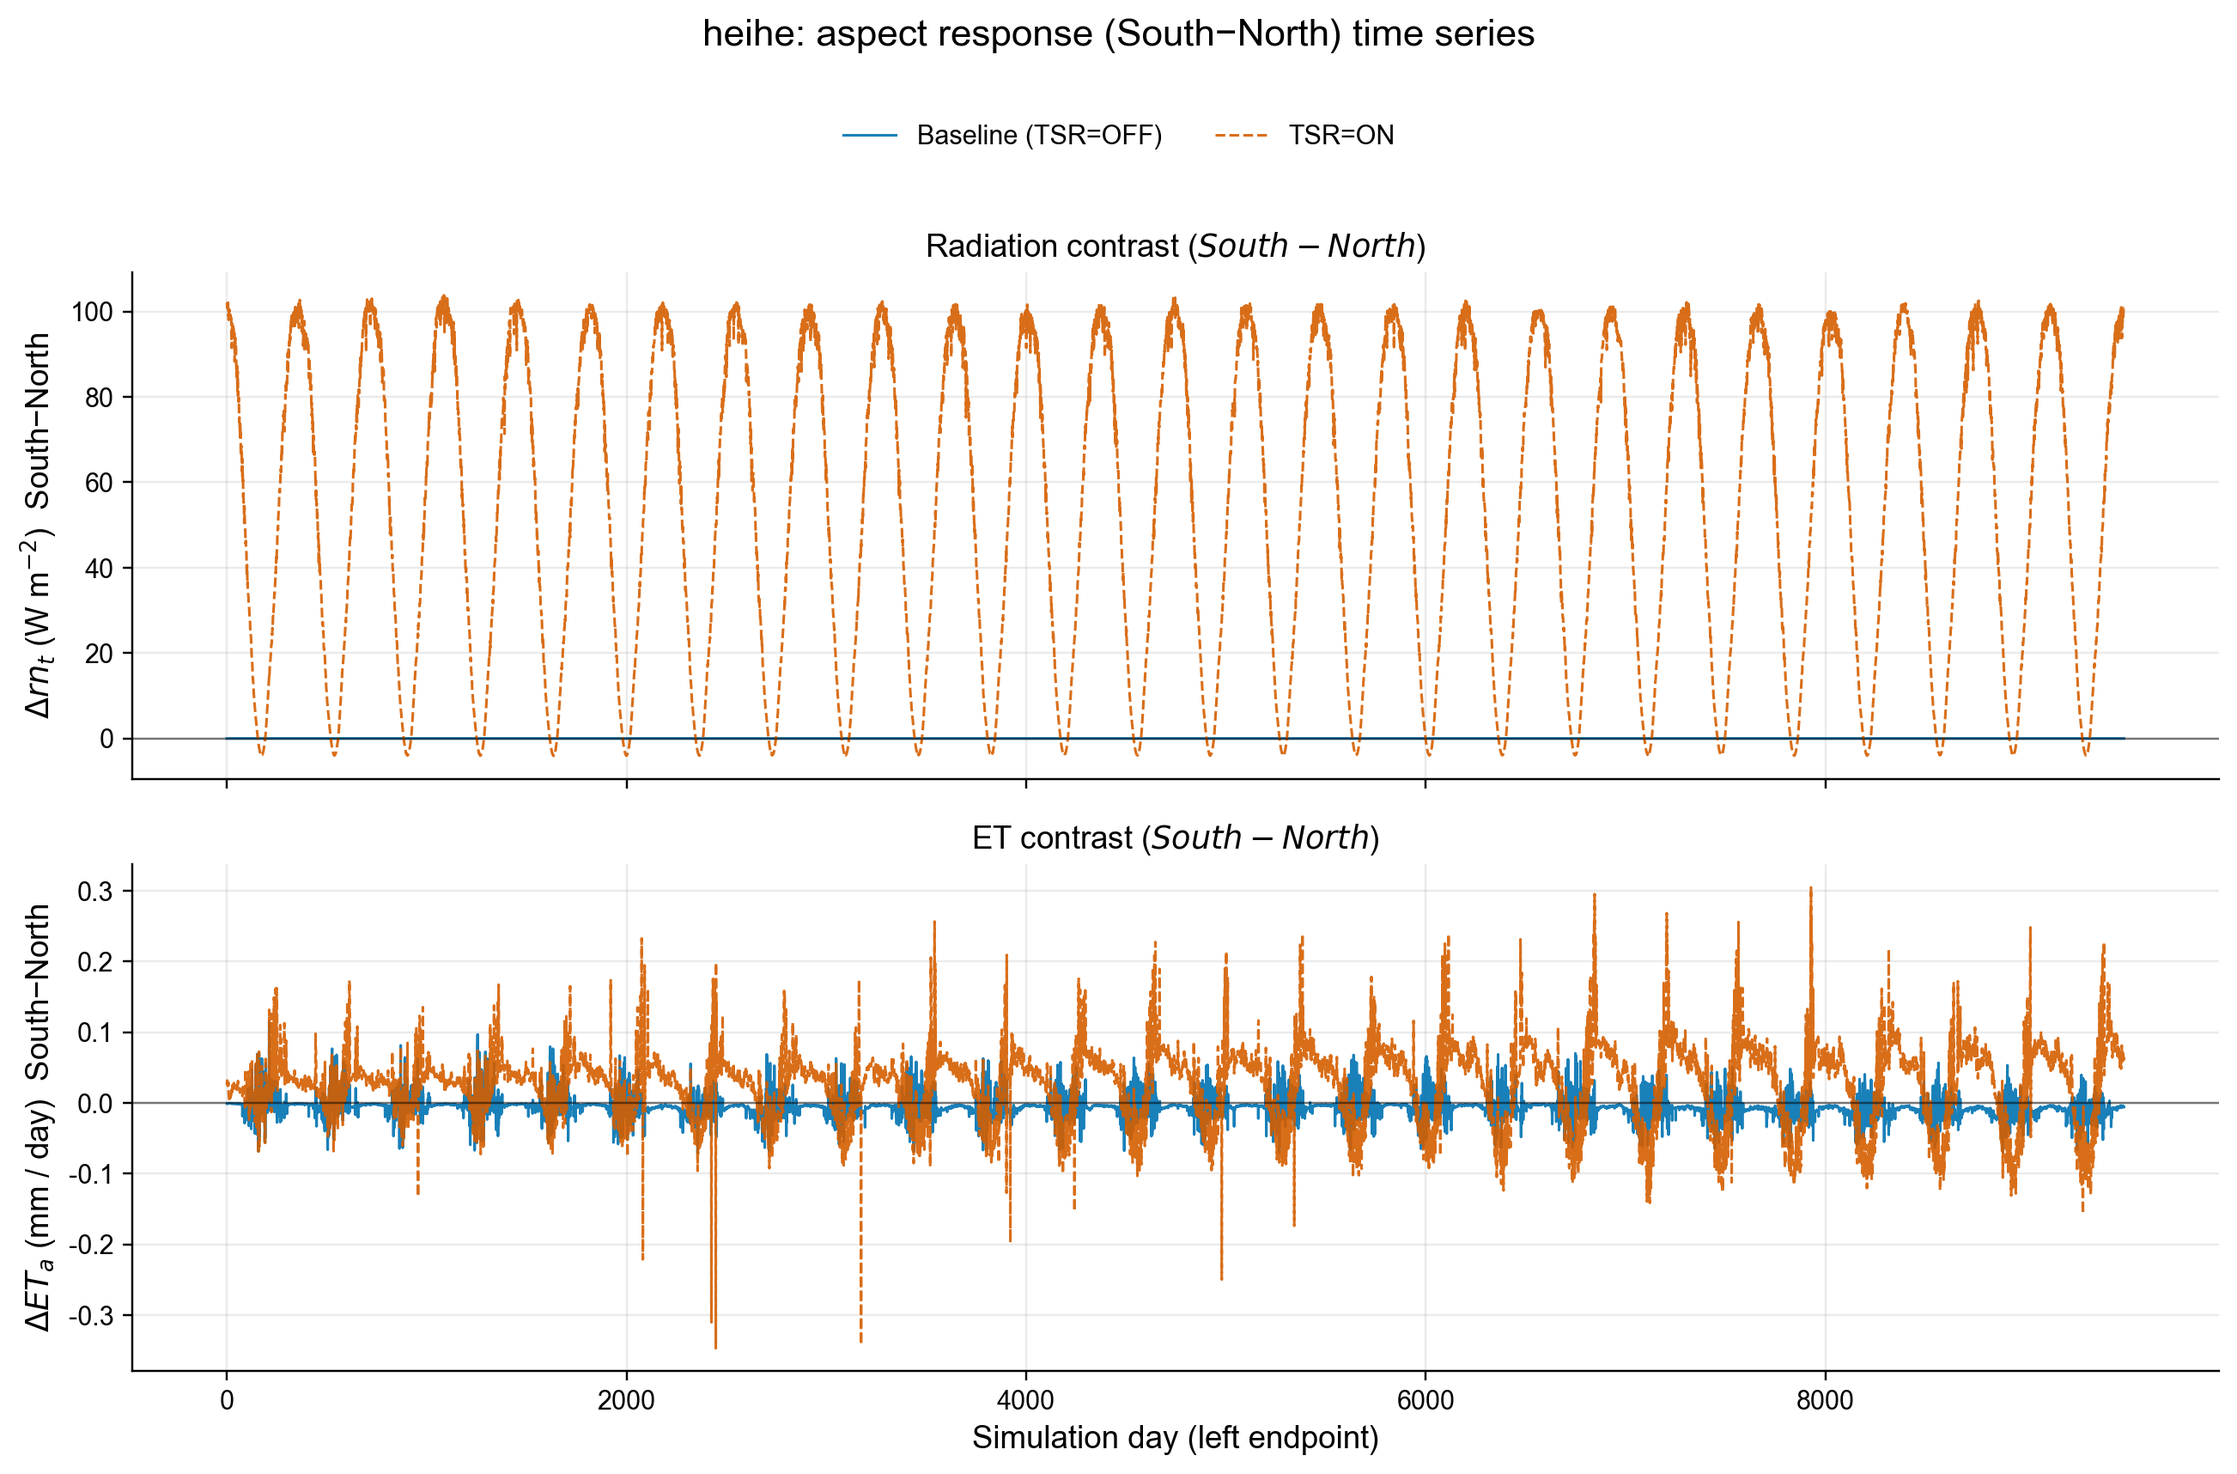
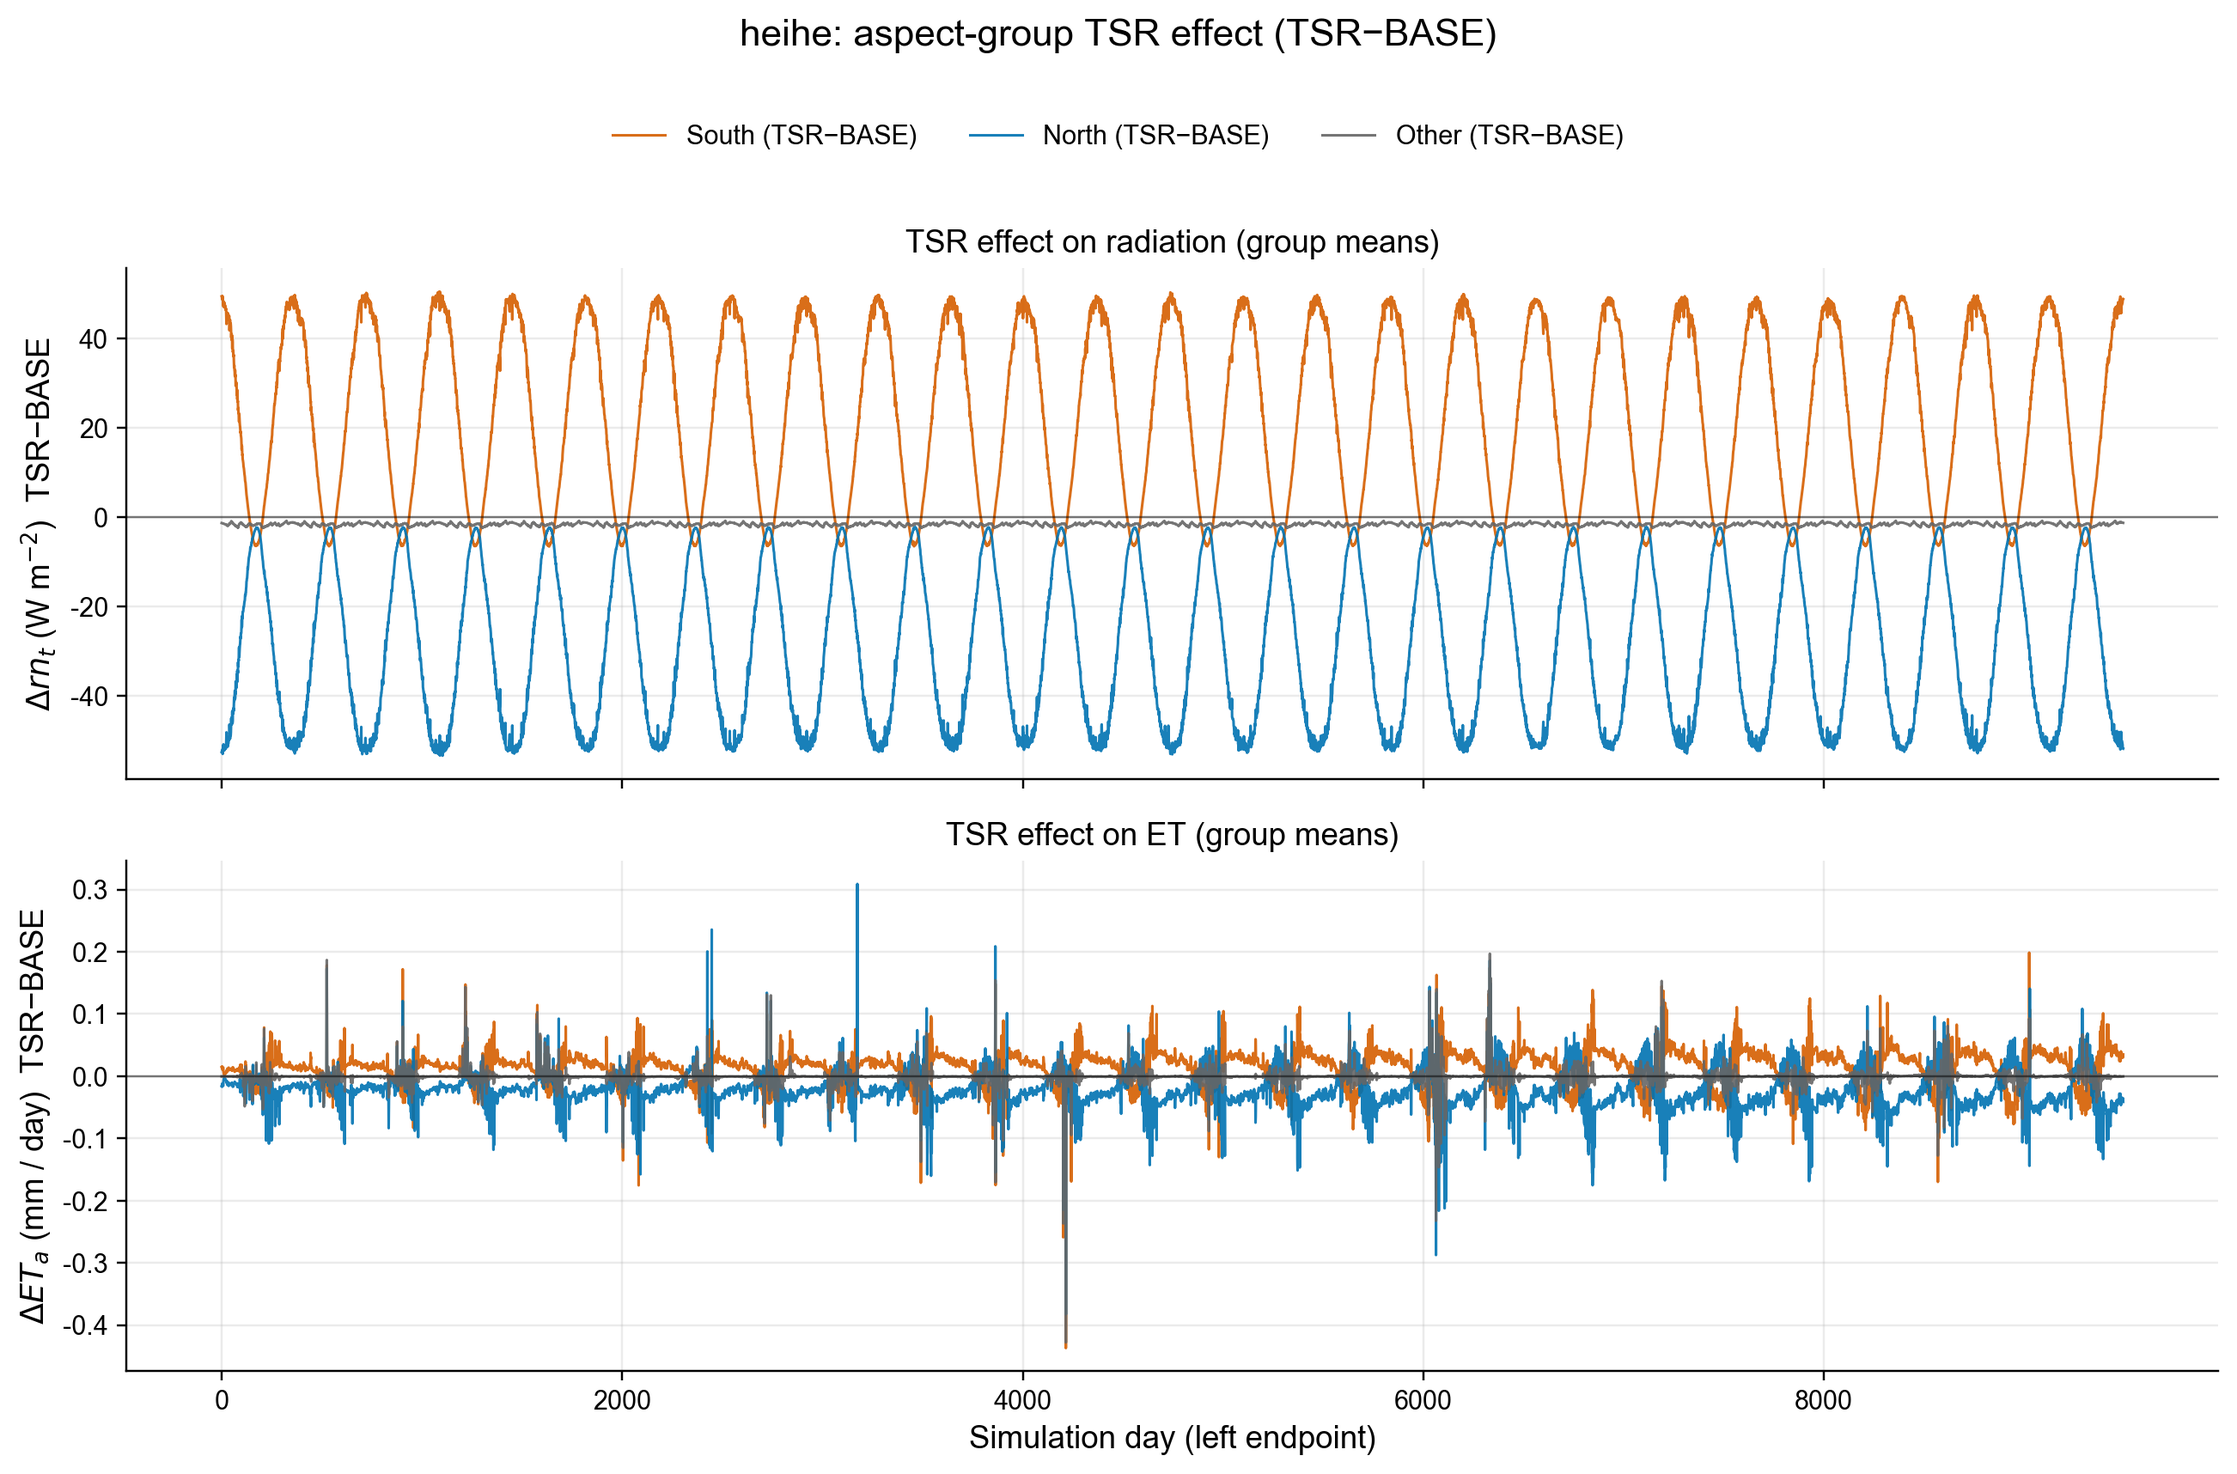
Plots: aspect TSR effect as TSR-BASE by group

diff --git a/post_analysis/plot_heihe_qhh_tsr.py b/post_analysis/plot_heihe_qhh_tsr.py
@@ -357,36 +357,50 @@ def plot_aspect_delta_timeseries(
     title: str,
 ) -> None:
     g = build_aspect_groups(mesh_path=mesh_path, slope_deg_min=slope_deg_min, aspect_halfwidth_deg=aspect_halfwidth_deg)
+    mask_other_all = ~(g.mask_south | g.mask_north)
 
-    def delta_series(out_dir: Path, dat_name: str) -> tuple[np.ndarray, np.ndarray]:
+    def group_means(out_dir: Path, dat_name: str) -> tuple[np.ndarray, np.ndarray, np.ndarray, np.ndarray]:
         t_min, vals, _ = _read_matrix_fast(out_dir / dat_name)
         south = _aw_mean_series(vals, areas=g.areas, mask=g.mask_south)
         north = _aw_mean_series(vals, areas=g.areas, mask=g.mask_north)
+        other = _aw_mean_series(vals, areas=g.areas, mask=mask_other_all)
         day = t_min / 1440.0
-        return day, (south - north)
+        return day, south, north, other
 
-    day_b, rn_b = delta_series(out_base, f"{basin}.rn_t.dat")
-    day_t, rn_t = delta_series(out_tsr, f"{basin}.rn_t.dat")
-    _, et_b_mday = delta_series(out_base, f"{basin}.eleveta.dat")
-    _, et_t_mday = delta_series(out_tsr, f"{basin}.eleveta.dat")
+    day_b, rn_b_s, rn_b_n, rn_b_o = group_means(out_base, f"{basin}.rn_t.dat")
+    day_t, rn_t_s, rn_t_n, rn_t_o = group_means(out_tsr, f"{basin}.rn_t.dat")
+    _, et_b_s, et_b_n, et_b_o = group_means(out_base, f"{basin}.eleveta.dat")
+    _, et_t_s, et_t_n, et_t_o = group_means(out_tsr, f"{basin}.eleveta.dat")
+
+    if day_b.shape != day_t.shape or not np.allclose(day_b, day_t, rtol=0.0, atol=0.0):
+        raise PlotError(f"Baseline and TSR time axes differ for {basin}; cannot plot aspect TSR effect.")
+
+    rn_eff_s = rn_t_s - rn_b_s
+    rn_eff_n = rn_t_n - rn_b_n
+    rn_eff_o = rn_t_o - rn_b_o
+    et_eff_s = (et_t_s - et_b_s) * 1000.0
+    et_eff_n = (et_t_n - et_b_n) * 1000.0
+    et_eff_o = (et_t_o - et_b_o) * 1000.0
     with plt.rc_context(_pub_rc()):
         fig, (ax1, ax2) = plt.subplots(2, 1, figsize=(12.0, 7.2), sharex=True)
 
-        ax1.plot(day_b, rn_b, color=_C_BASE, lw=1.0, alpha=0.9, label="Baseline (TSR=OFF)")
-        ax1.plot(day_t, rn_t, color=_C_TSR, lw=1.0, alpha=0.9, ls="--", label="TSR=ON")
+        ax1.plot(day_b, rn_eff_s, color=_C_TSR, lw=1.0, alpha=0.9, label="South (TSR−BASE)")
+        ax1.plot(day_b, rn_eff_n, color=_C_BASE, lw=1.0, alpha=0.9, label="North (TSR−BASE)")
+        ax1.plot(day_b, rn_eff_o, color=_C_GREY, lw=1.0, alpha=0.9, label="Other (TSR−BASE)")
         ax1.axhline(0.0, color="k", lw=0.8, alpha=0.5)
-        ax1.set_ylabel(r"$\Delta rn_t$ (W m$^{-2}$)  South−North")
-        ax1.set_title(r"Radiation contrast ($South-North$)")
+        ax1.set_ylabel(r"$\Delta rn_t$ (W m$^{-2}$)  TSR−BASE")
+        ax1.set_title("TSR effect on radiation (group means)")
 
-        ax2.plot(day_b, et_b_mday * 1000.0, color=_C_BASE, lw=1.0, alpha=0.9, label="Baseline (TSR=OFF)")
-        ax2.plot(day_t, et_t_mday * 1000.0, color=_C_TSR, lw=1.0, alpha=0.9, ls="--", label="TSR=ON")
+        ax2.plot(day_b, et_eff_s, color=_C_TSR, lw=1.0, alpha=0.9, label="South (TSR−BASE)")
+        ax2.plot(day_b, et_eff_n, color=_C_BASE, lw=1.0, alpha=0.9, label="North (TSR−BASE)")
+        ax2.plot(day_b, et_eff_o, color=_C_GREY, lw=1.0, alpha=0.9, label="Other (TSR−BASE)")
         ax2.axhline(0.0, color="k", lw=0.8, alpha=0.5)
         ax2.set_xlabel("Simulation day (left endpoint)")
-        ax2.set_ylabel(r"$\Delta ET_a$ (mm / day)  South−North")
-        ax2.set_title(r"ET contrast ($South-North$)")
+        ax2.set_ylabel(r"$\Delta ET_a$ (mm / day)  TSR−BASE")
+        ax2.set_title("TSR effect on ET (group means)")
 
         handles, labels = ax1.get_legend_handles_labels()
-        fig.legend(handles, labels, loc="upper center", ncols=2, frameon=False, bbox_to_anchor=(0.5, 1.02))
+        fig.legend(handles, labels, loc="upper center", ncols=3, frameon=False, bbox_to_anchor=(0.5, 1.02))
         fig.suptitle(title, y=1.08)
 
         fig.tight_layout()
@@ -1021,7 +1035,7 @@ def main() -> int:
         slope_deg_min=args.slope_deg_min,
         aspect_halfwidth_deg=args.aspect_halfwidth_deg,
         out_path=heihe_dir / "aspect_delta_timeseries.png",
-        title="heihe: aspect response (South−North) time series",
+        title="heihe: aspect-group TSR effect (TSR−BASE)",
     )
     plot_aspect_storage_delta_timeseries(
         basin="heihe",
@@ -1083,7 +1097,7 @@ def main() -> int:
         slope_deg_min=args.slope_deg_min,
         aspect_halfwidth_deg=args.aspect_halfwidth_deg,
         out_path=qhh_dir / "aspect_delta_timeseries.png",
-        title="qhh: aspect response (South−North) time series",
+        title="qhh: aspect-group TSR effect (TSR−BASE)",
     )
     plot_aspect_storage_delta_timeseries(
         basin="qhh",

diff --git a/post_analysis/plot_water_balance_verification.py b/post_analysis/plot_water_balance_verification.py
@@ -742,37 +742,51 @@ def plot_aspect_delta_timeseries(
     title: str,
 ) -> None:
     g = build_aspect_groups(mesh_path=mesh_path, slope_deg_min=slope_deg_min, aspect_halfwidth_deg=aspect_halfwidth_deg)
+    mask_other_all = ~(g.mask_south | g.mask_north)
 
-    def delta_series(out_dir: Path, dat_name: str) -> tuple[np.ndarray, np.ndarray]:
+    def group_means(out_dir: Path, dat_name: str) -> tuple[np.ndarray, np.ndarray, np.ndarray, np.ndarray]:
         t_min, vals, _ = _read_matrix_fast(out_dir / dat_name)
         south = _aw_mean_series(vals, areas=g.areas, mask=g.mask_south)
         north = _aw_mean_series(vals, areas=g.areas, mask=g.mask_north)
+        other = _aw_mean_series(vals, areas=g.areas, mask=mask_other_all)
         day = t_min / 1440.0
-        return day, (south - north)
+        return day, south, north, other
 
-    day_b, rn_b = delta_series(out_base, "ccw.rn_t.dat")
-    day_t, rn_t = delta_series(out_tsr, "ccw.rn_t.dat")
-    _, et_b_mday = delta_series(out_base, "ccw.eleveta.dat")
-    _, et_t_mday = delta_series(out_tsr, "ccw.eleveta.dat")
+    day_b, rn_b_s, rn_b_n, rn_b_o = group_means(out_base, "ccw.rn_t.dat")
+    day_t, rn_t_s, rn_t_n, rn_t_o = group_means(out_tsr, "ccw.rn_t.dat")
+    _, et_b_s, et_b_n, et_b_o = group_means(out_base, "ccw.eleveta.dat")
+    _, et_t_s, et_t_n, et_t_o = group_means(out_tsr, "ccw.eleveta.dat")
+
+    if day_b.shape != day_t.shape or not np.allclose(day_b, day_t, rtol=0.0, atol=0.0):
+        raise PlotError("Baseline and TSR time axes differ; cannot plot aspect TSR effect.")
+
+    rn_eff_s = rn_t_s - rn_b_s
+    rn_eff_n = rn_t_n - rn_b_n
+    rn_eff_o = rn_t_o - rn_b_o
+    et_eff_s = (et_t_s - et_b_s) * 1000.0
+    et_eff_n = (et_t_n - et_b_n) * 1000.0
+    et_eff_o = (et_t_o - et_b_o) * 1000.0
 
     with plt.rc_context(_pub_rc()):
         fig, (ax1, ax2) = plt.subplots(2, 1, figsize=(12.0, 7.2), sharex=True)
 
-        ax1.plot(day_b, rn_b, color=_C_BASE, lw=1.0, alpha=0.9, label="Baseline (TSR=OFF)")
-        ax1.plot(day_t, rn_t, color=_C_TSR, lw=1.0, alpha=0.9, ls="--", label="TSR=ON")
+        ax1.plot(day_b, rn_eff_s, color=_C_TSR, lw=1.0, alpha=0.9, label="South (TSR−BASE)")
+        ax1.plot(day_b, rn_eff_n, color=_C_BASE, lw=1.0, alpha=0.9, label="North (TSR−BASE)")
+        ax1.plot(day_b, rn_eff_o, color=_C_GREY, lw=1.0, alpha=0.9, label="Other (TSR−BASE)")
         ax1.axhline(0.0, color="k", lw=0.8, alpha=0.5)
-        ax1.set_ylabel(r"$\Delta rn_t$ (W m$^{-2}$)  South−North")
-        ax1.set_title(r"Radiation contrast ($South-North$)")
+        ax1.set_ylabel(r"$\Delta rn_t$ (W m$^{-2}$)  TSR−BASE")
+        ax1.set_title("TSR effect on radiation (group means)")
 
-        ax2.plot(day_b, et_b_mday * 1000.0, color=_C_BASE, lw=1.0, alpha=0.9, label="Baseline (TSR=OFF)")
-        ax2.plot(day_t, et_t_mday * 1000.0, color=_C_TSR, lw=1.0, alpha=0.9, ls="--", label="TSR=ON")
+        ax2.plot(day_b, et_eff_s, color=_C_TSR, lw=1.0, alpha=0.9, label="South (TSR−BASE)")
+        ax2.plot(day_b, et_eff_n, color=_C_BASE, lw=1.0, alpha=0.9, label="North (TSR−BASE)")
+        ax2.plot(day_b, et_eff_o, color=_C_GREY, lw=1.0, alpha=0.9, label="Other (TSR−BASE)")
         ax2.axhline(0.0, color="k", lw=0.8, alpha=0.5)
         ax2.set_xlabel("Simulation day (left endpoint)")
-        ax2.set_ylabel(r"$\Delta ET_a$ (mm / day)  South−North")
-        ax2.set_title(r"ET contrast ($South-North$)")
+        ax2.set_ylabel(r"$\Delta ET_a$ (mm / day)  TSR−BASE")
+        ax2.set_title("TSR effect on ET (group means)")
 
         handles, labels = ax1.get_legend_handles_labels()
-        fig.legend(handles, labels, loc="upper center", ncols=2, frameon=False, bbox_to_anchor=(0.5, 1.02))
+        fig.legend(handles, labels, loc="upper center", ncols=3, frameon=False, bbox_to_anchor=(0.5, 1.02))
         fig.suptitle(title, y=1.08)
 
         fig.tight_layout()
@@ -1216,7 +1230,7 @@ def main() -> int:
         slope_deg_min=args.slope_deg_min,
         aspect_halfwidth_deg=args.aspect_halfwidth_deg,
         out_path=args.outdir / "aspect_delta_timeseries_full.png",
-        title="Aspect response (South−North) time series (full run)",
+        title="Aspect-group TSR effect time series (TSR−BASE; full run)",
     )
     plot_aspect_storage_delta_timeseries(
         out_base=args.base,

diff --git a/post_analysis/summarize_tsr_heihe_qhh.py b/post_analysis/summarize_tsr_heihe_qhh.py
@@ -232,6 +232,7 @@ def main() -> int:
 
     def summarize_basin(basin: str, mesh: Path, out_base: Path, out_tsr: Path) -> None:
         groups = build_aspect_groups(mesh_path=mesh, slope_deg_min=args.slope_deg_min, aspect_halfwidth_deg=args.aspect_halfwidth_deg)
+        mask_other_all = ~(groups.mask_south | groups.mask_north)
         A = float(groups.areas.sum())
         if not (A > 0.0):
             raise SummarizeError(f"invalid mesh area for {basin}: {A}")
@@ -254,12 +255,34 @@ def main() -> int:
         st = _flatten_stats(rn_factor.reshape(-1))
         print(f"rn_factor (TSR=ON): min={st['min']:.3f}, p50={st['p50']:.3f}, p95={st['p95']:.3f}, max={st['max']:.3f}")
 
-        # South-North rn_t delta (TSR=ON)
-        _, rn_t, _ = _read_matrix_fast(out_tsr / f"{basin}.rn_t.dat")
-        s_mean = _aw_mean_series(rn_t, areas=groups.areas, mask=groups.mask_south)
-        n_mean = _aw_mean_series(rn_t, areas=groups.areas, mask=groups.mask_north)
-        delta_rn = float(np.nanmean(s_mean - n_mean))
-        print(f"Δ rn_t (South-North), TSR=ON: {delta_rn:+.4g} W/m^2 (area-weighted time mean)")
+        # Group-wise TSR effect on rn_t / ETa (area-weighted time mean)
+        _, rn_base, _ = _read_matrix_fast(out_base / f"{basin}.rn_t.dat")
+        _, rn_tsr, _ = _read_matrix_fast(out_tsr / f"{basin}.rn_t.dat")
+
+        rn_b_s = _aw_mean_series(rn_base, areas=groups.areas, mask=groups.mask_south)
+        rn_b_n = _aw_mean_series(rn_base, areas=groups.areas, mask=groups.mask_north)
+        rn_b_o = _aw_mean_series(rn_base, areas=groups.areas, mask=mask_other_all)
+        rn_t_s = _aw_mean_series(rn_tsr, areas=groups.areas, mask=groups.mask_south)
+        rn_t_n = _aw_mean_series(rn_tsr, areas=groups.areas, mask=groups.mask_north)
+        rn_t_o = _aw_mean_series(rn_tsr, areas=groups.areas, mask=mask_other_all)
+
+        print("TSR effect on rn_t (TSR−BASE), area-weighted time mean:")
+        print(f"  South: {float(np.nanmean(rn_t_s - rn_b_s)):+.4g} W/m^2")
+        print(f"  North: {float(np.nanmean(rn_t_n - rn_b_n)):+.4g} W/m^2")
+        print(f"  Other: {float(np.nanmean(rn_t_o - rn_b_o)):+.4g} W/m^2")
+
+        _, et_base, _ = _read_matrix_fast(out_base / f"{basin}.eleveta.dat")
+        _, et_tsr, _ = _read_matrix_fast(out_tsr / f"{basin}.eleveta.dat")
+        et_b_s = _aw_mean_series(et_base, areas=groups.areas, mask=groups.mask_south) * 1000.0
+        et_b_n = _aw_mean_series(et_base, areas=groups.areas, mask=groups.mask_north) * 1000.0
+        et_b_o = _aw_mean_series(et_base, areas=groups.areas, mask=mask_other_all) * 1000.0
+        et_t_s = _aw_mean_series(et_tsr, areas=groups.areas, mask=groups.mask_south) * 1000.0
+        et_t_n = _aw_mean_series(et_tsr, areas=groups.areas, mask=groups.mask_north) * 1000.0
+        et_t_o = _aw_mean_series(et_tsr, areas=groups.areas, mask=mask_other_all) * 1000.0
+        print("TSR effect on ETa (TSR−BASE), area-weighted time mean:")
+        print(f"  South: {float(np.nanmean(et_t_s - et_b_s)):+.4g} mm/day")
+        print(f"  North: {float(np.nanmean(et_t_n - et_b_n)):+.4g} mm/day")
+        print(f"  Other: {float(np.nanmean(et_t_o - et_b_o)):+.4g} mm/day")
 
         # Basin totals
         tb = basin_totals_mm(basinwb_path=out_base / f"{basin}.basinwbfull.dat", mesh_area_m2=A)

diff --git a/docs/tsr_heihe_qhh_analysis.md b/docs/tsr_heihe_qhh_analysis.md
@@ -90,14 +90,14 @@
 > - 当 forcing 为子日尺度（如 qhh 的 3 小时辐射 forcing）且 `factor` 与 `rn_h` 强相关时，通常有 $\langle rn_h \cdot factor \rangle \ne \langle rn_h \rangle \cdot \langle factor \rangle$，因此不能仅凭 “`rn_factor < 1`” 就断言 “`rn_t < rn_h`”；这也是 qhh 中会出现 `rn_t/rn_h > 1` 的原因之一。
 > - 对 heihe（forcing 逐日、`rn_h` 在日内近似常数）上述差异会显著减弱，因而 `rn_t ≈ rn_h · rn_factor` 更接近成立。
 
-### 3.3 阴阳坡（South−North）辐射差异
+### 3.3 坡向分组的辐射响应（TSR−BASE）
 
-时间平均的 **South−North** 差异（area-weighted time mean）：
+时间平均的组均值变化（area-weighted time mean；TSR−Baseline）：
 
-- heihe：$\Delta rn_t$（South−North）≈ **+53.62 W/m²**（TSR=ON；Baseline≈0）
-- qhh：$\Delta rn_t$（South−North）≈ **+37.38 W/m²**（TSR=ON；Baseline≈0）
+- heihe：South **+23.33 W/m²**，North **-30.29 W/m²**，Other **-1.609 W/m²**
+- qhh：South **+11.69 W/m²**，North **-25.69 W/m²**，Other **-3.519 W/m²**
 
-对应时间序列图：
+对应时间序列图（各组的 `TSR−BASE`）：
 
 - heihe：![heihe aspect delta](figures/tsr_heihe_qhh/heihe/aspect_delta_timeseries.png)
 - qhh：![qhh aspect delta](figures/tsr_heihe_qhh/qhh/aspect_delta_timeseries.png)

diff --git a/docs/water_balance_verification.md b/docs/water_balance_verification.md
@@ -334,7 +334,7 @@ TSR=ON 下的季节性差异（`Δ = 阳坡 - 阴坡`，按月分组：4–9 月
 - `rn_t`：全期 `Δ=64.2232 W/m²`；夏季均值 `38.6391 W/m²`；冬季均值 `89.8914 W/m²`
 - `ETa`：全期 `Δ=0.150583 mm/day`；夏季均值 `0.185505 mm/day`；冬季均值 `0.115545 mm/day`
 
-（图）南北坡差异随时间变化（baseline vs TSR；South−North）：
+（图）TSR 对不同坡向分组的净效应随时间变化（TSR−BASE；South / North / Other=非南北坡）：
 
 ![](figures/water_balance/aspect_delta_timeseries_full.png)
 
